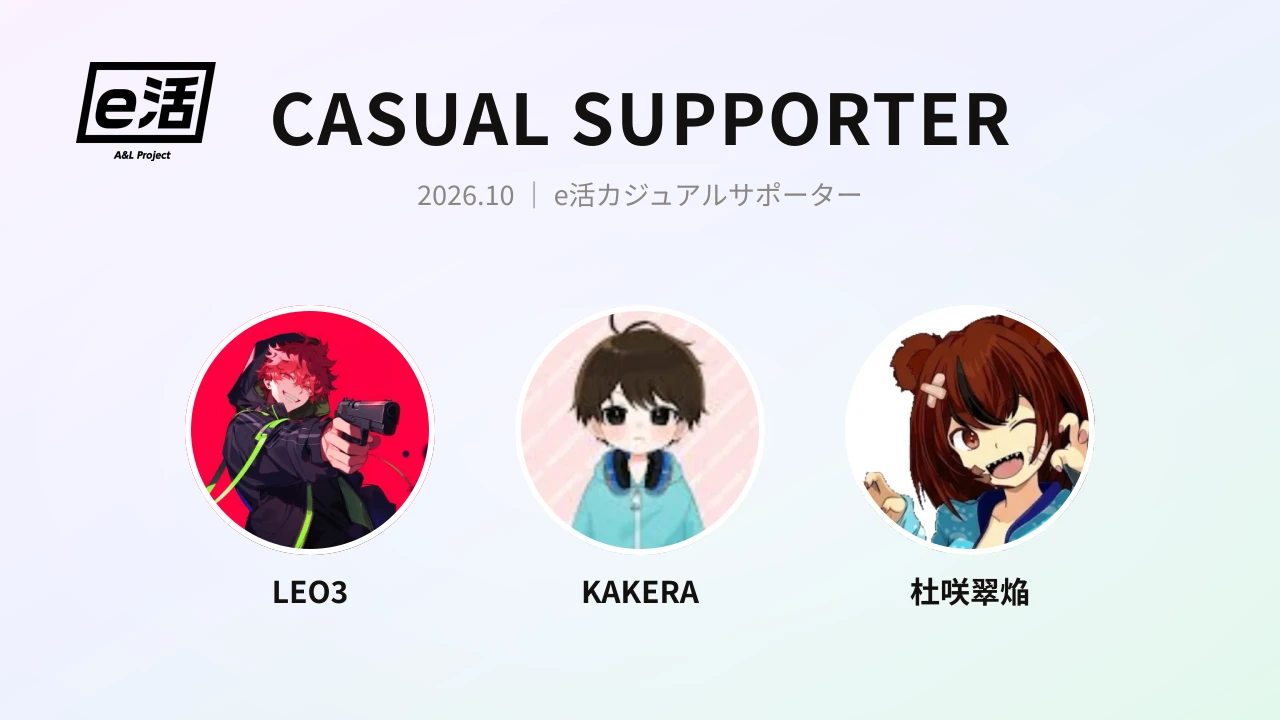
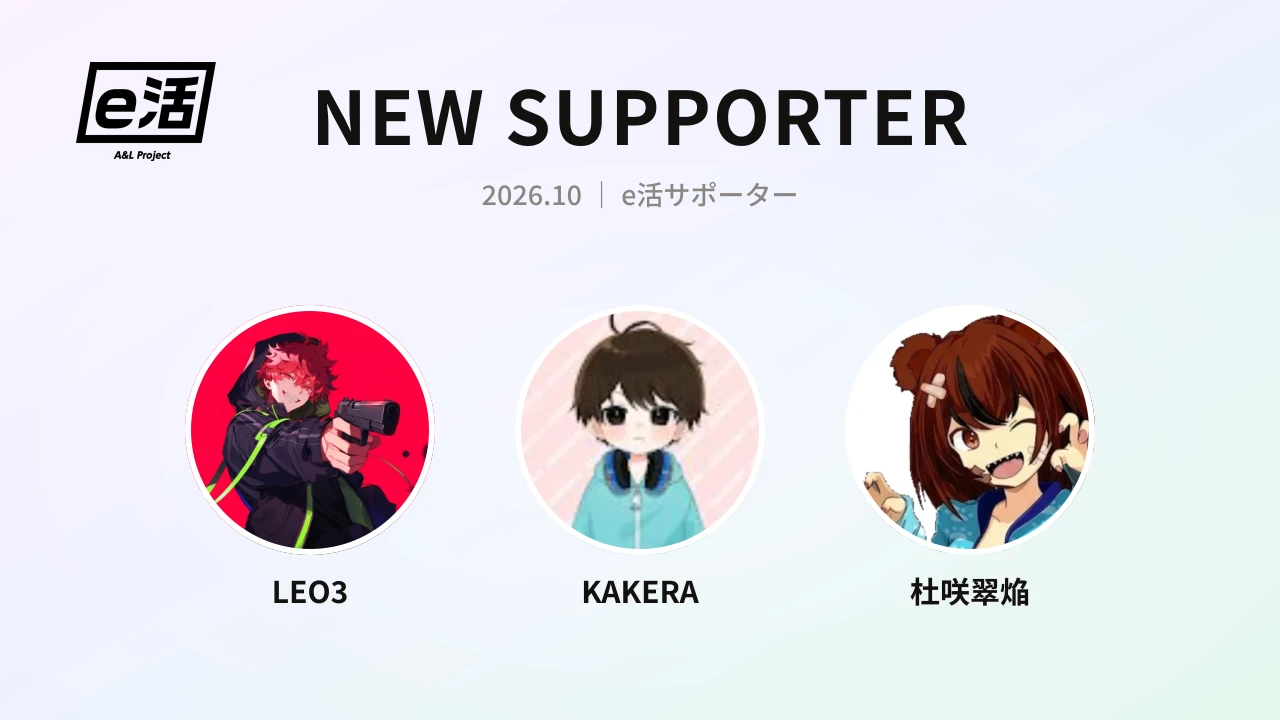
新しい人の紹介記事：呼び方を「e活サポーター」に（10/12 の記事・見出し画像・一覧と、記事を作るスクリプト）。9/28 までの記事はそのまま

Changed region(s): [[0.1875, 0.1222, 0.7812, 0.2139], [0.3125, 0.2444, 0.6562, 0.3056]]

diff --git a/news/supporter-2026-10-12.html b/news/supporter-2026-10-12.html
@@ -4,12 +4,12 @@
   <meta charset="UTF-8" />
   <meta name="viewport" content="width=device-width, initial-scale=1.0" />
 
-  <title>新しいe活カジュアルサポーターのご紹介（2026.10.12） ｜ e活</title>
-  <meta name="description" content="e活が協賛する大会を、カジュアルに応援してくれる「e活カジュアルサポーター」に、新しく3名の仲間が加わりました。" />
+  <title>新しいe活サポーターのご紹介（2026.10.12） ｜ e活</title>
+  <meta name="description" content="コミュニティ大会をミラー配信で応援してくれる「e活サポーター」に、新しく3名の仲間が加わりました。" />
 
   <meta property="og:type" content="article" />
-  <meta property="og:title" content="新しいe活カジュアルサポーターのご紹介（2026.10.12） ｜ e活" />
-  <meta property="og:description" content="e活が協賛する大会を、カジュアルに応援してくれる「e活カジュアルサポーター」に、新しく3名の仲間が加わりました。" />
+  <meta property="og:title" content="新しいe活サポーターのご紹介（2026.10.12） ｜ e活" />
+  <meta property="og:description" content="コミュニティ大会をミラー配信で応援してくれる「e活サポーター」に、新しく3名の仲間が加わりました。" />
   <meta property="og:image" content="https://ekatsu-web.pages.dev/assets/img/news/supporter-2026-10-12.webp" />
 
   <link rel="icon" type="image/png" sizes="32x32" href="/assets/img/favicon-32.png" />
@@ -49,21 +49,21 @@
       <header class="article__head reveal">
         <p class="eyebrow">news</p>
         <time class="article__date" datetime="2026-10-12">2026.10.12</time>
-        <h1 class="article__title">新しいe活カジュアルサポーターのご紹介（2026.10.12）</h1>
+        <h1 class="article__title">新しいe活サポーターのご紹介（2026.10.12）</h1>
       </header>
 
       <div class="article__body reveal">
         <figure>
-          <img src="../assets/img/news/supporter-2026-10-12.webp" alt="新しいe活カジュアルサポーターのご紹介（2026.10.12）" width="1280" height="720" loading="lazy" />
+          <img src="../assets/img/news/supporter-2026-10-12.webp" alt="新しいe活サポーターのご紹介（2026.10.12）" width="1280" height="720" loading="lazy" />
         </figure>
-        <p>e活が協賛する大会を、カジュアルに応援してくれる「e活カジュアルサポーター」に、新しく3名の仲間が加わりました。</p>
+        <p>コミュニティ大会をミラー配信で応援してくれる「e活サポーター」に、新しく3名の仲間が加わりました。</p>
         <ul>
           <li><strong>LEO3</strong>｜enfant所属のLEOといいます！ よろしくお願いします！ <a target="_blank" rel="noopener" href="https://x.com/leo_6721">@leo_6721</a></li>
           <li><strong>KAKERA</strong>｜エーペックスレジェンズ・ポケモン大好きなVTuber CS時代ではワットソンキル数元上位勢 よろしくお願いします。 <a target="_blank" rel="noopener" href="https://x.com/Lh5pWDqQcZNy1cE">@Lh5pWDqQcZNy1cE</a></li>
           <li><strong>杜咲翠焔</strong>｜🐻落ち着く声で癒やし・怪談……のつもりが、ゲームに熱中すると大暴走！？ <a target="_blank" rel="noopener" href="https://x.com/sakura_edh_t">@sakura_edh_t</a></li>
         </ul>
         <p>プロフィールの詳細は <a href="../vtuber.html">VTuber一覧ページ</a> からご覧いただけます。応援よろしくお願いいたします！</p>
-        <p><strong>■ e活カジュアルサポーターを随時募集中です！</strong> e活では、共にコミュニティ大会を応援し、シーンを盛り上げてくださる配信者様を継続して募集しております。お気軽にお問い合わせください。</p>
+        <p><strong>■ e活サポーターを随時募集中です！</strong> e活では、共にコミュニティ大会を応援し、シーンを盛り上げてくださる配信者様を継続して募集しております。お気軽にお問い合わせください。</p>
       </div>
 
       <div class="article__nav reveal">

diff --git a/tools/supporter-news.js b/tools/supporter-news.js
@@ -9,6 +9,7 @@
 
    ★2026-08-29 依田の指示
      ・呼び方は「e活カジュアルサポーター」（旧「ネクストVTuber」は使わない）
+       → ★2026-10-13：今は「e活サポーター」（10/7 に枠を1つにした）。9/28 までの記事は出した時点のまま
      ・記事は**掲載した週ごとに1本**（月まとめではない）
      ・この記事をXでもポストする → tools/supporter_news.json に記録し、Botがそれを読む
 
@@ -60,7 +61,7 @@ async function buildBanner(people, dateLabel, outPath) {
   // 背景（薄いグラデ）＋見出し。文字はSVGで描く。
   // 見出しは左上のロゴにぶつからない大きさまで自動で縮める。
   //   （元にした「NEXT VTuber」は短かったが「CASUAL SUPPORTER」は長く、74pxだとロゴに当たる）
-  const title = "CASUAL SUPPORTER";
+  const title = "NEW SUPPORTER";   // 2026-10-13：呼び方を「e活サポーター」1つにした（前は CASUAL SUPPORTER）
   const LOGO_W = 140, LOGO_X = 76, MIN_GAP = 70;
   const logoRight = LOGO_X + LOGO_W;
   let titleSize = 74;
@@ -84,7 +85,7 @@ async function buildBanner(people, dateLabel, outPath) {
   <text x="${W / 2}" y="145" font-family="${FONT}" font-size="${titleSize}" font-weight="700"
         fill="#14110f" text-anchor="middle" letter-spacing="2">${esc(title)}</text>
   <text x="${W / 2}" y="205" font-family="${FONT}" font-size="27" font-weight="500"
-        fill="#8c8682" text-anchor="middle">${esc(dateLabel)} ｜ e活カジュアルサポーター</text>
+        fill="#8c8682" text-anchor="middle">${esc(dateLabel)} ｜ e活サポーター</text>
   ${people.map((p, i) => {
     const x = startX + i * (d + gap) + d / 2;
     // 名前が長いと隣とぶつかるので、枠に収まるまで字を小さくする
@@ -132,8 +133,8 @@ function articleHtml({ title, iso, disp, imgFile, people }) {
   }).join("\n");
 
   const lead = people.length === 1
-    ? "e活が協賛する大会を、カジュアルに応援してくれる「e活カジュアルサポーター」に新しい仲間が加わりました。"
-    : `e活が協賛する大会を、カジュアルに応援してくれる「e活カジュアルサポーター」に、新しく${people.length}名の仲間が加わりました。`;
+    ? "コミュニティ大会をミラー配信で応援してくれる「e活サポーター」に新しい仲間が加わりました。"
+    : `コミュニティ大会をミラー配信で応援してくれる「e活サポーター」に、新しく${people.length}名の仲間が加わりました。`;
 
   return `<!DOCTYPE html>
 <html lang="ja">
@@ -198,7 +199,7 @@ function articleHtml({ title, iso, disp, imgFile, people }) {
 ${items}
         </ul>
         <p>プロフィールの詳細は <a href="../vtuber.html">VTuber一覧ページ</a> からご覧いただけます。応援よろしくお願いいたします！</p>
-        <p><strong>■ e活カジュアルサポーターを随時募集中です！</strong> e活では、共にコミュニティ大会を応援し、シーンを盛り上げてくださる配信者様を継続して募集しております。お気軽にお問い合わせください。</p>
+        <p><strong>■ e活サポーターを随時募集中です！</strong> e活では、共にコミュニティ大会を応援し、シーンを盛り上げてくださる配信者様を継続して募集しております。お気軽にお問い合わせください。</p>
       </div>
 
       <div class="article__nav reveal">
@@ -262,7 +263,7 @@ async function publishSupporterNews(people, today, { dry = false } = {}) {
   const disp = `${y}.${m}.${d}`;
   const slug = `supporter-${today}`;
   const imgFile = `${slug}.webp`;
-  const title = `新しいe活カジュアルサポーターのご紹介（${y}.${m}.${d}）`;
+  const title = `新しいe活サポーターのご紹介（${y}.${m}.${d}）`;
 
   console.log(`\n■ お知らせ記事を作る: ${title}`);
   console.log(`  紹介する人: ${people.map(p => p.displayName).join(" / ")}`);

diff --git a/news.html b/news.html
@@ -67,7 +67,7 @@
           <img class="news-card__thumb" src="assets/img/news/supporter-2026-10-12.webp" alt="" width="140" height="88" loading="lazy" />
           <div class="news-card__body">
             <time datetime="2026-10-12">2026.10.12</time>
-            <p class="news-card__title">新しいe活カジュアルサポーターのご紹介（2026.10.12）</p>
+            <p class="news-card__title">新しいe活サポーターのご紹介（2026.10.12）</p>
           </div>
         </a>
         <a class="news-card reveal" id="n-supporter-2026-09-28" href="news/supporter-2026-09-28.html">

diff --git a/index.html b/index.html
@@ -258,7 +258,7 @@
           <img class="news-card__thumb" src="assets/img/news/supporter-2026-10-12.webp" alt="" width="140" height="88" loading="lazy" />
           <div class="news-card__body">
             <time datetime="2026-10-12">2026.10.12</time>
-            <p class="news-card__title">新しいe活カジュアルサポーターのご紹介（2026.10.12）</p>
+            <p class="news-card__title">新しいe活サポーターのご紹介（2026.10.12）</p>
           </div>
         </a>
         <a class="news-card" href="news/supporter-2026-09-28.html">
